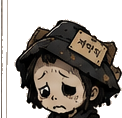
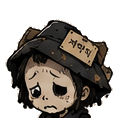
fix: 저승사자 초상 위치·크기·크롭 결함 수정
- 크롭 왼쪽 끝에 옆 패널 경계선이 걸려 세로줄로 남아있던 문제 수정 —
  crop-reaper.mjs 크롭 x좌표를 9px 오른쪽으로 옮겨 경계선 회피
- 초상 위치를 대화 박스 위쪽에서 오른쪽으로 변경
- 초상 크기 확대(96px → 140px, 원본 비율 유지)

diff --git a/src/ui/DialogueBox.tsx b/src/ui/DialogueBox.tsx
@@ -57,7 +57,6 @@ function DialogueBox({ queue, onAdvance, autoDismissMs, playSound }: DialogueBox
 
   return (
     <div style={overlayStyle}>
-      <img src={PORTRAIT_SRC} alt="" style={portraitStyle} />
       <div
         style={boxStyle}
         onClick={() => {
@@ -69,6 +68,7 @@ function DialogueBox({ queue, onAdvance, autoDismissMs, playSound }: DialogueBox
         <p style={lineStyle}>{currentLine}</p>
         {autoDismissMs === undefined && <p style={hintStyle}>클릭 또는 Enter/Space로 계속</p>}
       </div>
+      <img src={PORTRAIT_SRC} alt="" style={portraitStyle} />
     </div>
   );
 }
@@ -80,28 +80,30 @@ const overlayStyle: CSSProperties = {
   position: "absolute",
   inset: 0,
   display: "flex",
-  flexDirection: "column",
-  alignItems: "center",
-  justifyContent: "flex-end",
+  flexDirection: "row",
+  alignItems: "flex-end",
+  justifyContent: "center",
+  gap: 12,
   paddingBottom: 32,
   pointerEvents: "none",
 };
 
-// 대화 박스 바로 위, 박스 바깥에 크게 띄우는 저승사자 초상 — 시트의 "표정/반응 예시"
+// 대화 박스 오른쪽, 박스 바깥에 띄우는 저승사자 초상 — 시트의 "표정/반응 예시"
 // 그리드 중 기본(평상시) 표정 칸을 크롭한 것(scripts/crop-reaper.mjs). 박스 자체는
-// 계속 세로로 좁게 유지하고(가독성 우선 레이아웃 그대로), 초상만 그 위에 겹치지 않게
-// 별도 요소로 쌓아 "박스 밖에서 말을 거는" 느낌을 준다.
+// 계속 좁게 유지하고(가독성 우선 레이아웃 그대로), 초상만 옆에 겹치지 않게 별도
+// 요소로 나란히 놓아 "박스 밖에서 말을 거는" 느낌을 준다. 원본 크롭이 122×118이라
+// aspectRatio로 비율을 유지한 채 폭만 키운다(원본보다 커지지만, 삽화 스타일이라
+// 이 정도 확대는 흐려 보이지 않는다).
 const portraitStyle: CSSProperties = {
-  width: 96,
-  height: 96,
+  width: 140,
+  aspectRatio: "122 / 118",
   objectFit: "contain",
-  marginBottom: 8,
   filter: "drop-shadow(0 4px 6px rgba(0, 0, 0, 0.5))",
 };
 
 const boxStyle: CSSProperties = {
-  width: "80%",
-  maxWidth: 480,
+  width: "60%",
+  maxWidth: 380,
   background: "rgba(20, 20, 20, 0.92)",
   border: "1px solid #666",
   borderRadius: 8,
